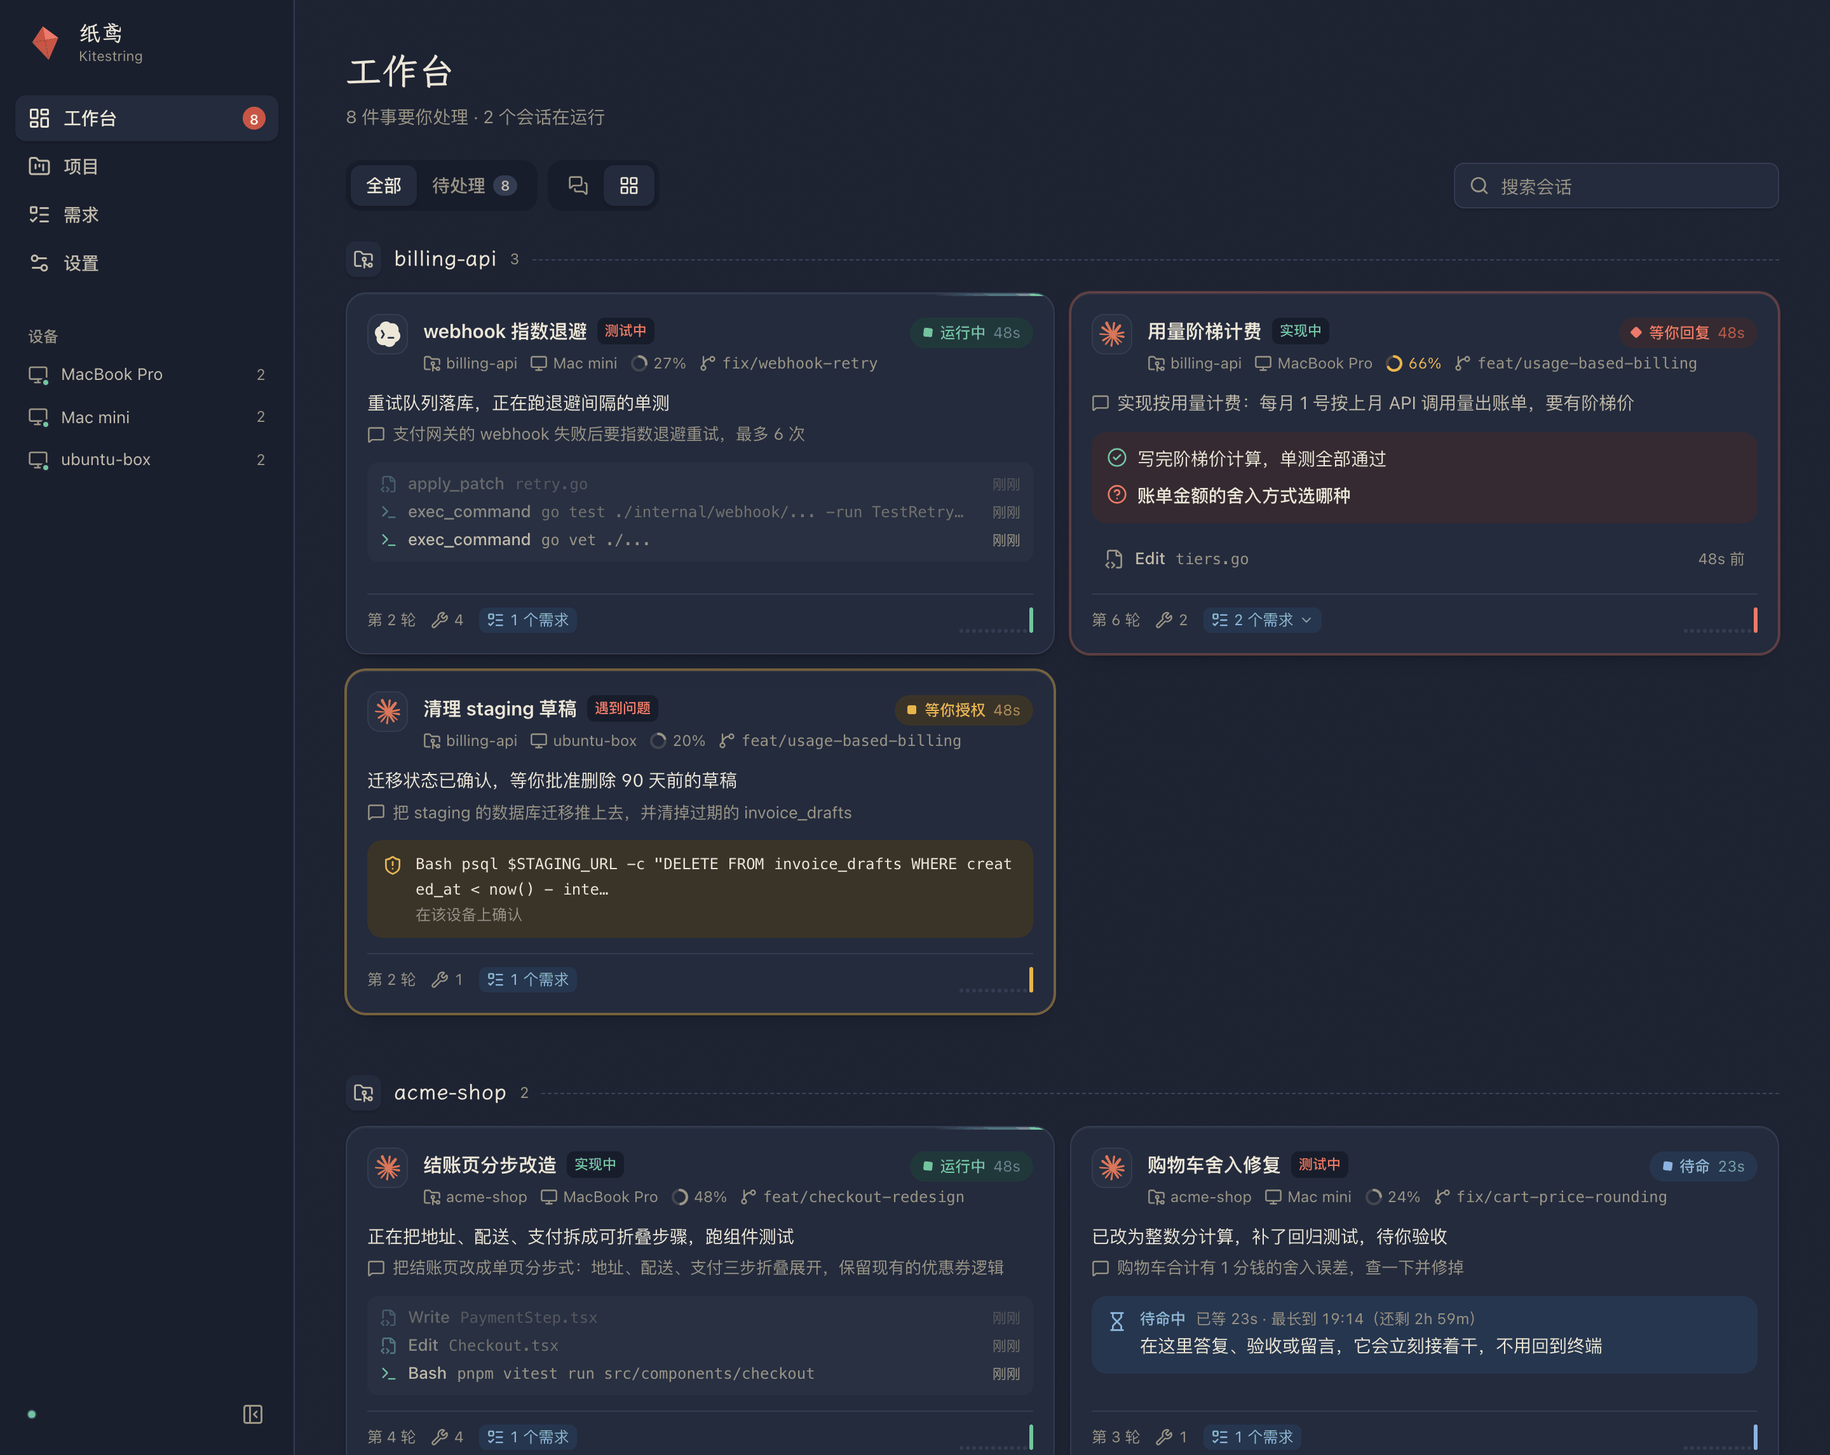
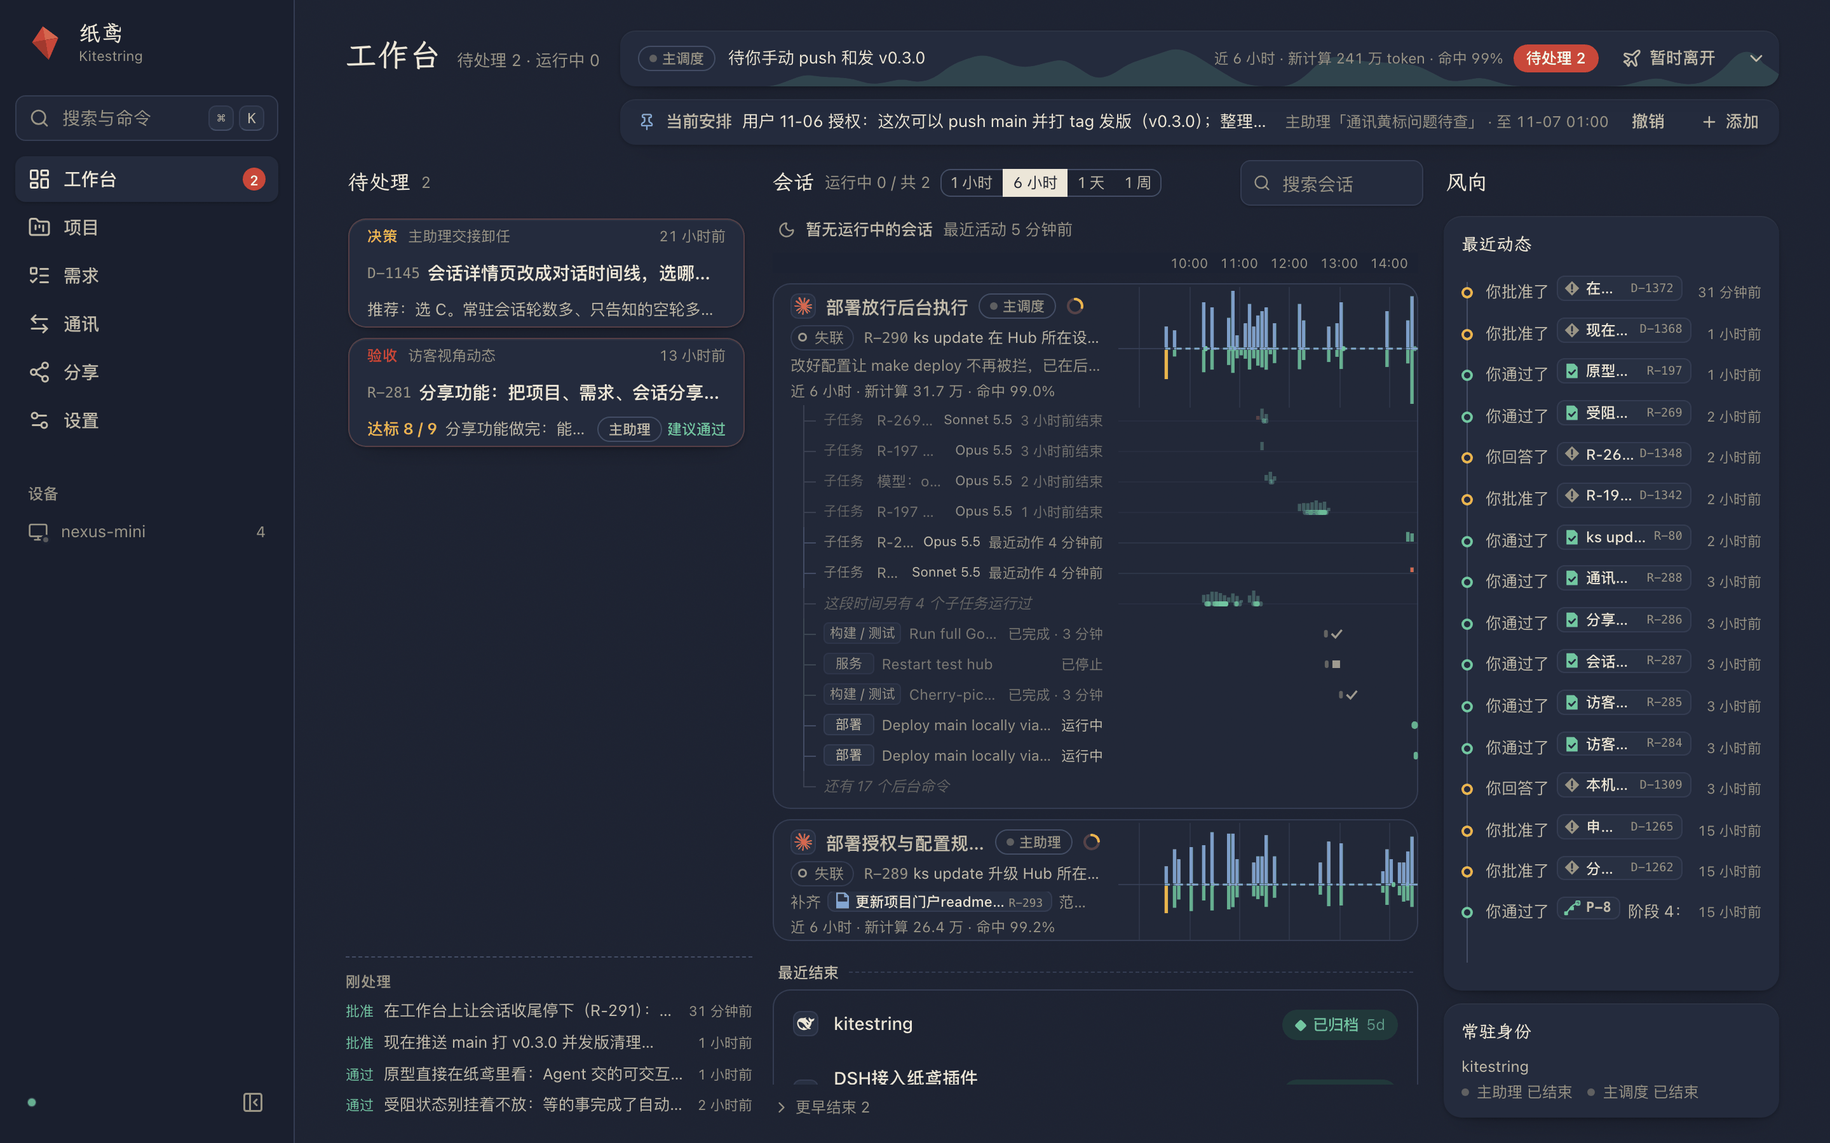
docs: 更新中英 README 与截图以匹配现状——补分享/访客、原型、通讯、各身份分工和 ks update，截图用真实数据快照重拍（深浅两套），架构图与安装/工作原理文档同步（R-293）
(cherry picked from commit 1111c2f72dbdab8546edd5a4c97b90008bb9fbac)

diff --git a/docs/assets/src/architecture.py b/docs/assets/src/architecture.py
@@ -19,7 +19,7 @@ TEXT = {
         machines="Your machines", hub_t="ks hub", hub_s="one always-on machine", you="You", you_s="any browser, phone or iPad",
         dev1="MacBook Pro", dev2="Mac mini", more="+ as many as you like",
         agents_lbl="hooks · MCP",
-        hub_items=["Session wall", "Decision inbox", "Requirement board", "Plans"], hub_foot="SQLite · Web UI · Web Push",
+        hub_items=["Workbench", "Requirements", "Comms", "Shares"], hub_foot="SQLite · Web UI · Web Push",
         you_items=["See what every agent is doing", "Answer decisions", "Review and accept work", "Hand off the next task"],
         ev="events", dec="decisions", live="updates", ans="answers",
         steps=["Agents work and raise decisions", "You answer from any device", "The agent picks it up next turn"],
@@ -28,7 +28,7 @@ TEXT = {
         machines="你的各台设备", hub_t="ks hub", hub_s="一台常开的机器", you="你", you_s="任意浏览器、手机或 iPad",
         dev1="MacBook Pro", dev2="Mac mini", more="+ 想接几台接几台",
         agents_lbl="hooks · MCP",
-        hub_items=["会话墙", "决策收件箱", "需求看板", "计划"], hub_foot="SQLite · 网页 · 系统推送",
+        hub_items=["工作台", "需求", "通讯", "分享"], hub_foot="SQLite · 网页 · 系统推送",
         you_items=["看清每个 agent 在做什么", "回答决策", "验收成果", "交出下一件事"],
         ev="事件", dec="决策", live="实时推送", ans="答复",
         steps=["Agent 干活，遇事提出决策", "你在任意设备上作答", "答复注入 agent 的下一轮"],

diff --git a/README.zh-CN.md b/README.zh-CN.md
@@ -6,7 +6,7 @@
 
 <p align="center">
   <strong>风筝飞得再远，线在你手里。</strong><br>
-  一块看板管住你所有设备上的 Claude Code 与 Codex 会话：看清每个 agent 在做什么，回答它在等的事，交给它下一件事——在电脑前或手机上都行。
+  一个工作台管住你所有设备上的 Claude Code 与 Codex 会话：看清每个 agent 在做什么，回答它在等的事，交给它下一件事——在电脑前或手机上都行。
 </p>
 
 <p align="center">
@@ -24,12 +24,12 @@
 
 <picture>
   <source media="(prefers-color-scheme: dark)" srcset="docs/assets/screenshot-sessions-dark.png">
-  <img src="docs/assets/screenshot-sessions-light.png" alt="会话墙：多台设备上的 agent 会话按项目分组，每个都显示正在做什么、是否在等你。">
+  <img src="docs/assets/screenshot-sessions-light.png" alt="工作台：左边是要你处理的事，中间每个会话一条泳道，显示近期动静、子任务和后台命令，右边是实时动态。">
 </picture>
 
 ## 它能做什么
 
-- **一眼看清所有会话**：所有设备上的会话按项目归在一起——运行中、等你处理、待命中还是已完成，以及此刻在做什么。
+- **一眼看清所有会话**：工作台列出要你处理的事，给所有设备上的每个会话一条泳道，实时显示此刻在做什么——运行中、等你处理、待命中还是已完成。
 - **在哪都能答复**：agent 需要你决策时，手机收到推送；点一个选项，答复就进入那个 agent 的下一轮。
 - **事情都记在一处**：agent 边做边记下需求；你确认、交给会话、对着截图验收。
 
@@ -70,7 +70,13 @@
 
 ## 更多亮点
 
+- **一支分工明确的团队，不是一个对话**：对会话说一句身份（`ks role`）——主调度（PM）、主助理（Aide）、顾问、评审、开发——它就知道自己的活：主调度排期、派子任务、合并部署；主助理替你判断，在你授权的范围内代答；评审在成果到你面前之前先审一遍；开发负责实现。子任务在后台跑，显示在会话泳道里。
+- **会话之间能说话**：在需求下留言、点对点发消息或广播、看谁在线、消息有没有送达，都在只看的「通讯」页。「要动手」的消息会叫醒会话，「只告知」的不会。
+- **分享给你信任的人**：勾选计划、需求、会话，生成带名字的访客链接，可设访问密码和有效期。访客看到的是实时、只读的页面；他们写的留言先进待收队列，由你原样或改写后放进需求——没有你点头，什么都到不了 agent 那里。
+- **原型直接在纸鸢里看**：agent 可以给需求、或给决策的每个选项附一个可交互的原型（HTML 页面加资源）。在纸鸢里全屏打开，跑在隔离的沙箱里，碰不到你的登录和接口，可切手机、平板、电脑的宽度预览。交之前用 `ks proto check` 自检。
+- **一条命令升级**：`ks update` 拉取最新发布版、校验、替换 `ks`，并重启 Hub 和后台服务。
 - **交出下一件事**：把需求交给会话；待办会在它空闲时整批送达，挂着 `ks wait` 的会话几秒内就开工。
+- **受阻不挂着不放**：需求被设为受阻后，等的事一完成就自动解除；会话关联它开工，也会转为进行中。
 - **分阶段的计划**：大目标拆成阶段，上一阶段你验收通过后，下一阶段才解锁。
 - **每个会话实时可见**：最近的工具调用实时滚动，小圆环显示上下文占用；接入你自己的模型后，还有一句话进展摘要。
 - **泳道时间线**：工作台每个会话一条泳道，按分钟汇总工具调用；中线以下画新算的 token（颜色按缓存命中率，冷启动有标记），后台命令（shell）每条一行，画起止、类型和结果，失败醒目、跑飞标黄。会话已结束、后台进程还在跑的「孤儿进程」单独列出，确认后可停止，也可忽略。
@@ -90,10 +96,10 @@
 
 <picture>
   <source media="(prefers-color-scheme: dark)" srcset="docs/assets/architecture-dark.zh-CN.svg">
-  <img src="docs/assets/architecture-light.zh-CN.svg" alt="每台设备上的 Claude Code 与 Codex 连到 ks daemon；daemon 与 ks hub 通信；你在任意浏览器或手机上使用 Hub 的网页看板。">
+  <img src="docs/assets/architecture-light.zh-CN.svg" alt="每台设备上的 Claude Code 与 Codex 连到 ks daemon；daemon 与 ks hub 通信；你在任意浏览器或手机上使用 Hub 的网页。">
 </picture>
 
-每台设备上的小 daemon 通过官方的 hooks 与 MCP 感知你的 agent，汇报给一台常开机器上的 Hub；你在任意浏览器里用 Hub 的网页看板。细节见[工作原理](docs/how-it-works.zh-CN.md)。
+每台设备上的小 daemon 通过官方的 hooks 与 MCP 感知你的 agent，汇报给一台常开机器上的 Hub；你在任意浏览器里用 Hub 的网页。细节见[工作原理](docs/how-it-works.zh-CN.md)。
 
 ## 上手
 
@@ -115,7 +121,9 @@ ks hub passwd && ks install --hub --claude=false --codex=false --daemon=false
 ks login --hub http://<hub>:7310 --token kst_xxx && ks install
 ```
 
-`ks status` 显示 `"connected": true` 就连上了，打开 Claude Code 或 Codex，会话就会出现在看板上。逐步说明、Linux 后台服务、DSH、升级与从源码构建见[安装说明](docs/install.zh-CN.md#3-每台开发设备)。
+`ks status` 显示 `"connected": true` 就连上了，打开 Claude Code 或 Codex，会话就会出现在工作台上。逐步说明、Linux 后台服务、DSH 与从源码构建见[安装说明](docs/install.zh-CN.md#3-每台开发设备)。
+
+**升级**：在每台机器上运行 `ks update`：下载最新发布版、用 `SHA256SUMS.txt` 校验、替换 `ks`，再重启用这个 `ks` 的 Hub 和后台服务（`ks update --check` 只查不换）。0.2.0 及更早的版本还没有这个命令，重跑一次安装脚本即可，见[升级](docs/install.zh-CN.md#升级)。
 
 ## 不碰你的订阅
 

diff --git a/README.md b/README.md
@@ -24,12 +24,12 @@
 
 <picture>
   <source media="(prefers-color-scheme: dark)" srcset="docs/assets/screenshot-sessions-dark.png">
-  <img src="docs/assets/screenshot-sessions-light.png" alt="The session wall: agent sessions on several machines, grouped by project, each showing what it is doing and whether it needs you.">
+  <img src="docs/assets/screenshot-sessions-light.png" alt="The workbench: what needs you on the left, a lane per session in the middle showing recent activity, sub-tasks and background commands, and a live feed on the right.">
 </picture>
 
 ## What it does
 
-- **See every session at a glance.** Sessions on all your machines, grouped by project — running, waiting on you, standing by or done, with what each one is doing right now.
+- **See every session at a glance.** The workbench lists what needs you, gives every session on every machine a lane, and streams what each one is doing right now — running, waiting on you, standing by or done.
 - **Answer from anywhere.** When an agent needs a decision, you get a push notification. Pick an option on your phone, and the answer lands in that agent's next turn.
 - **Keep the work in one place.** Agents record requirements as they go; you confirm them, hand them to a session, and accept the results with screenshots attached.
 
@@ -70,7 +70,13 @@ Circle, box, point and write right on the agent's screenshots. The pen follows p
 
 ## More highlights
 
+- **A team of roles, not one chat.** Tell a session who it is — manager (PM), aide, advisor, reviewer, developer (`ks role`) — and each knows its job: the PM schedules and merges, the aide judges and answers for you within the limits you set, the reviewer checks work before it reaches you, developers implement. Sub-tasks run in the background and show up in the lanes.
+- **Sessions talk to each other.** Leave a comment under a requirement, message one session or broadcast to many, see who is online and whether a message was delivered — all on the read-only **Comms** page. "Act on this" messages wake a session; "FYI" ones don't.
+- **Share with people you trust.** Pick plans, requirements and sessions, and hand out a named visitor link with an optional password and expiry. Visitors get a live, read-only view; what they write is held in a queue until you put it into the requirement (as it is or reworded) — nothing reaches the agents without you.
+- **Prototypes you can open right here.** An agent can attach an interactive prototype (an HTML page with its assets) to a requirement or to each option of a decision. It opens full screen in Kitestring, in a sandbox that cannot touch your login or the API, with width presets for phone, tablet and desktop. `ks proto check` self-checks a package before it is handed in.
+- **Update with one command.** `ks update` pulls the latest release, verifies it, replaces `ks` and restarts the Hub and background services.
 - **Hand off the next task.** Give a requirement to a session; to-dos queue up and arrive together when it goes idle. A session waiting in `ks wait` picks it up within seconds.
+- **Blocked doesn't linger.** A requirement marked blocked is released automatically once the thing it waited on is done, and linking a session to it starts the work.
 - **Plans with gates.** Split a big goal into stages; each stage unlocks only after you accept the previous one.
 - **A live view of every session.** Recent tool calls stream in, a ring shows how full the context is, and — if you connect your own model — a one-line summary says what it's doing.
 - **Swim-lane timeline.** Every session gets a lane on the workbench, summarised per minute; below the midline it draws newly computed tokens (coloured by cache hit rate, with cold starts marked), and each background shell command gets its own row with start, end, type and result — failures stand out, runaways turn yellow. "Orphan" processes that outlived their ended session are listed so you can stop or ignore them.
@@ -90,10 +96,10 @@ Circle, box, point and write right on the agent's screenshots. The pen follows p
 
 <picture>
   <source media="(prefers-color-scheme: dark)" srcset="docs/assets/architecture-dark.svg">
-  <img src="docs/assets/architecture-light.svg" alt="Claude Code and Codex on each machine report to ks daemon; the daemons talk to ks hub; you use the Hub's web board from any browser or phone.">
+  <img src="docs/assets/architecture-light.svg" alt="Claude Code and Codex on each machine report to ks daemon; the daemons talk to ks hub; you use the Hub's web app from any browser or phone.">
 </picture>
 
-A small daemon on each machine listens to your agents through their official hooks and MCP, and reports to a Hub on one always-on machine. You use the Hub's web board from any browser. Details: [How it works](docs/how-it-works.md).
+A small daemon on each machine listens to your agents through their official hooks and MCP, and reports to a Hub on one always-on machine. You use the Hub's web app from any browser. Details: [How it works](docs/how-it-works.md).
 
 ## Get started
 
@@ -115,7 +121,9 @@ ks hub passwd && ks install --hub --claude=false --codex=false --daemon=false
 ks login --hub http://<hub>:7310 --token kst_xxx && ks install
 ```
 
-When `ks status` shows `"connected": true`, open Claude Code or Codex and your session appears on the board. Step by step, Linux services, DSH, updating and building from source: [Install guide](docs/install.md#3-every-development-machine).
+When `ks status` shows `"connected": true`, open Claude Code or Codex and your session appears on the workbench. Step by step, Linux services, DSH and building from source: [Install guide](docs/install.md#3-every-development-machine).
+
+**Updating.** Run `ks update` on each machine: it downloads the latest release, verifies it against `SHA256SUMS.txt`, replaces `ks` and restarts the Hub and daemon services that run it (`ks update --check` only looks). Versions 0.2.0 and earlier don't have it yet — re-run the install script once; see [Updating](docs/install.md#updating).
 
 ## Safe for your subscription
 

diff --git a/docs/how-it-works.md b/docs/how-it-works.md
@@ -4,7 +4,7 @@ English · [中文](how-it-works.zh-CN.md)
 
 <picture>
   <source media="(prefers-color-scheme: dark)" srcset="assets/architecture-dark.svg">
-  <img src="assets/architecture-light.svg" alt="Claude Code and Codex on each machine report to ks daemon through hooks and MCP; the daemons send events to ks hub and receive your decisions; you use the Hub's web board from any browser or phone.">
+  <img src="assets/architecture-light.svg" alt="Claude Code and Codex on each machine report to ks daemon through hooks and MCP; the daemons send events to ks hub and receive your decisions; you use the Hub's web app from any browser or phone.">
 </picture>
 
 ## One binary, four roles
@@ -28,7 +28,7 @@ Session state is collected passively; agents don't have to report it.
 - **Session files.** The daemon reads the agents' local session files (read-only) for context usage and the latest activity.
 - **Git.** For each session's working directory, the daemon reports the branch, worktree and number of dirty files. Sessions are grouped into projects by git remote, or by machine and path when there is no remote.
 
-From these events the Hub derives the state you see on the board: running, waiting on you (a permission prompt or a question), standing by, finished, or lost.
+From these events the Hub derives the state you see on the workbench: running, waiting on you (a permission prompt or a question), standing by, finished, or lost.
 
 **Hooks never get in your way.** `ks hook` has a 1.5-second hard timeout and lets the agent continue on any error — even when the daemon isn't running. It never exits with code 2, which agents would treat as "block".
 
@@ -36,10 +36,10 @@ From these events the Hub derives the state you see on the board: running, waiti
 
 1. An agent hits something you should decide and calls `decision_raise` with the options and its recommendation.
 2. The decision shows up in your inbox, with a push notification to your phone or browser.
-3. You answer on the board. The Hub routes the answer to the one session that asked and sends it to that machine's daemon.
+3. You answer on the workbench. The Hub routes the answer to the one session that asked and sends it to that machine's daemon.
 4. The next time you send that session a message, its prompt hook injects the answer into the agent's context (`additionalContext`). If the session has ended, the answer is delivered when it resumes.
 
-<p align="center"><img src="assets/screenshot-mobile-light.png" width="300" alt="A decision on a phone: approve or reject, with an optional note."></p>
+<p align="center"><img src="assets/screenshot-mobile-light.png" width="300" alt="A decision on a phone: the agent's question and recommendation, with mockups to choose from."></p>
 
 Requirements work the same way: agents create and update them through MCP; you confirm drafts, hand them to a session, review and accept.
 
@@ -54,7 +54,7 @@ When an agent finishes a piece of work and needs your review or answer to contin
 | Usage cost | none while waiting | Codex polls the command output, costing a little each time (mostly cache reads), hence the 30-minute cap |
 | On timeout | ends quietly; continue in the conversation when you're back | tells the agent to wrap up — report progress and what it's waiting for, then end the turn; later answers arrive in the next conversation |
 
-Waiting sessions show as "standing by" on the board, with how long they have waited and until when.
+Waiting sessions show as "standing by" on the workbench, with how long they have waited and until when.
 
 Resident sessions (manager / aide / developer) re-wait after a timeout. Once they have idled in a row (nothing to act on, no message from you) longer than the project's "go offline after idling" setting (4 hours by default), the next wake-up tells them to write a handoff and go offline instead of waiting again; the board marks them "handed off, offline". Messages addressed to them keep queuing; when you're back, run `ks takeover <role>` in the project directory to start a new session, which receives the handoff, the takeover overview and the queued messages.
 

diff --git a/docs/install.md b/docs/install.md
@@ -10,7 +10,7 @@ Kitestring is a single binary, `ks`, for macOS and Linux (arm64 and x64). One al
 curl -fsSL https://raw.githubusercontent.com/NekroAI/kitestring/main/scripts/install.sh | sh
 ```
 
-The script picks the right build for your system, verifies it against `SHA256SUMS.txt` and installs it to `~/.local/bin/ks`. Set `KS_VERSION=v0.1.0` to pin a version or `KS_INSTALL_DIR` to change the directory. Run it again to update.
+The script picks the right build for your system, verifies it against `SHA256SUMS.txt` and installs it to `~/.local/bin/ks`. Set `KS_VERSION=v0.1.0` to pin a version or `KS_INSTALL_DIR` to change the directory. To update later, use `ks update` (see [Updating](#updating)).
 
 Prefer to do it by hand? Download `kitestring-<version>-<darwin|linux>-<arm64|amd64>.tar.gz` below, check it against `SHA256SUMS.txt`, and put `ks` somewhere stable — `ks install` writes the binary's absolute path into your agent configuration, so don't move it afterwards.
 
